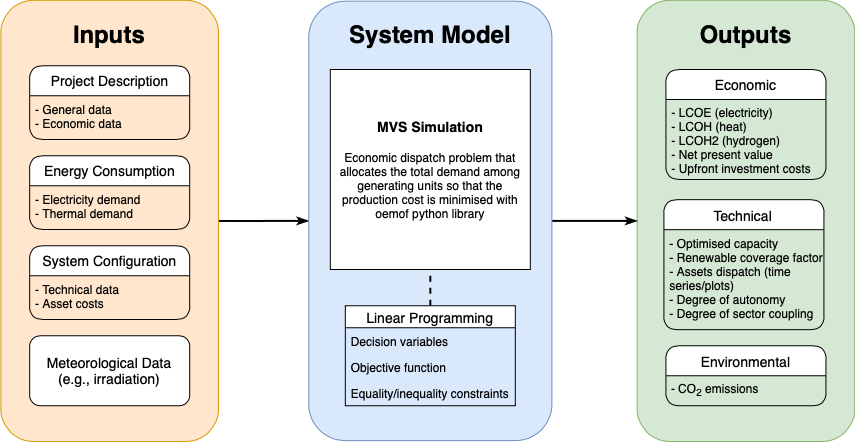
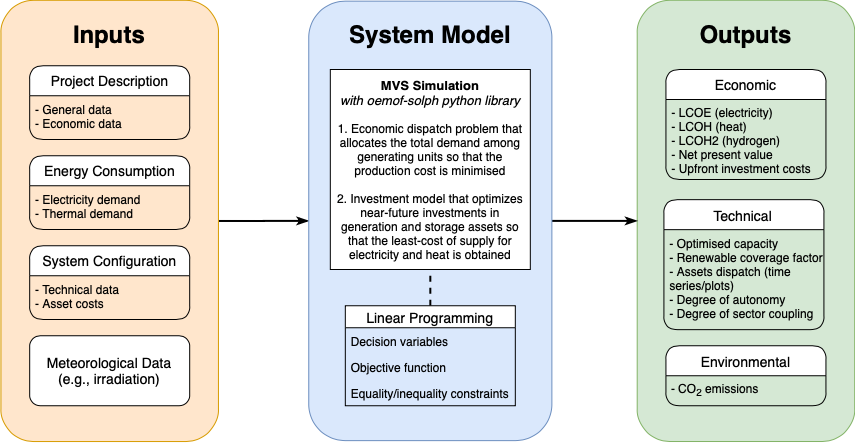
Update flowchart image and description

Changed region(s): [[0.3953, 0.2641, 0.6082, 0.5869], [0.3953, 0.1761, 0.6082, 0.2348]]

diff --git a/docs/Overview.rst b/docs/Overview.rst
@@ -28,8 +28,8 @@ The user is asked to enter the required data through a web interface. In develop
 
 4.	Meteorological data, which is related to the components that generate electricity by harnessing an existing source of energy that is weather- and time-dependent (e.g., solar and wind power).
 
-This set of input data is then translated to a linear programming problem, also known as a constrained optimization problem. The MVS is based on the oemof python library that describes the problem by specifying the objective function, the decision variables and the constraints. The aim is to minimize the production costs by determining the generating units' optimal output, which meets the total demand.
-The simulation outputs are also separated into categories. The economic results, such as the levelized cost of electricity or heat or the net present value of the projected investments, are the ones used for financial evaluation and decision making. The technical results also showcase several important values, such as the optimized capacities and dispatch of each asset. Lastly, the system’s environmental contribution is shown through the value of CO2 emissions. 
+This set of input data is then translated to a linear programming problem, also known as a constrained optimization problem. The MVS is based on the oemof-solph python library that describes the problem by specifying the objective function, the decision variables and the bounds and constraints. The goal is to (1) minimize the production costs by determining the generating units' optimal output, which meets the total demand, and (2) otpimize near-future investments in generation and storage assets with the least possible cost of energy.
+The simulation outputs are also separated into categories. The economic results, such as the levelized cost of electricity or heat or the net present value of the projected investments, are the ones used for financial evaluation and decision making. The technical results also showcase several important values, such as the optimized capacities and dispatch of each asset. Lastly, the system’s environmental contribution is shown through the value of CO2 emissions.
 
 MVS Validation Plan
 -------
